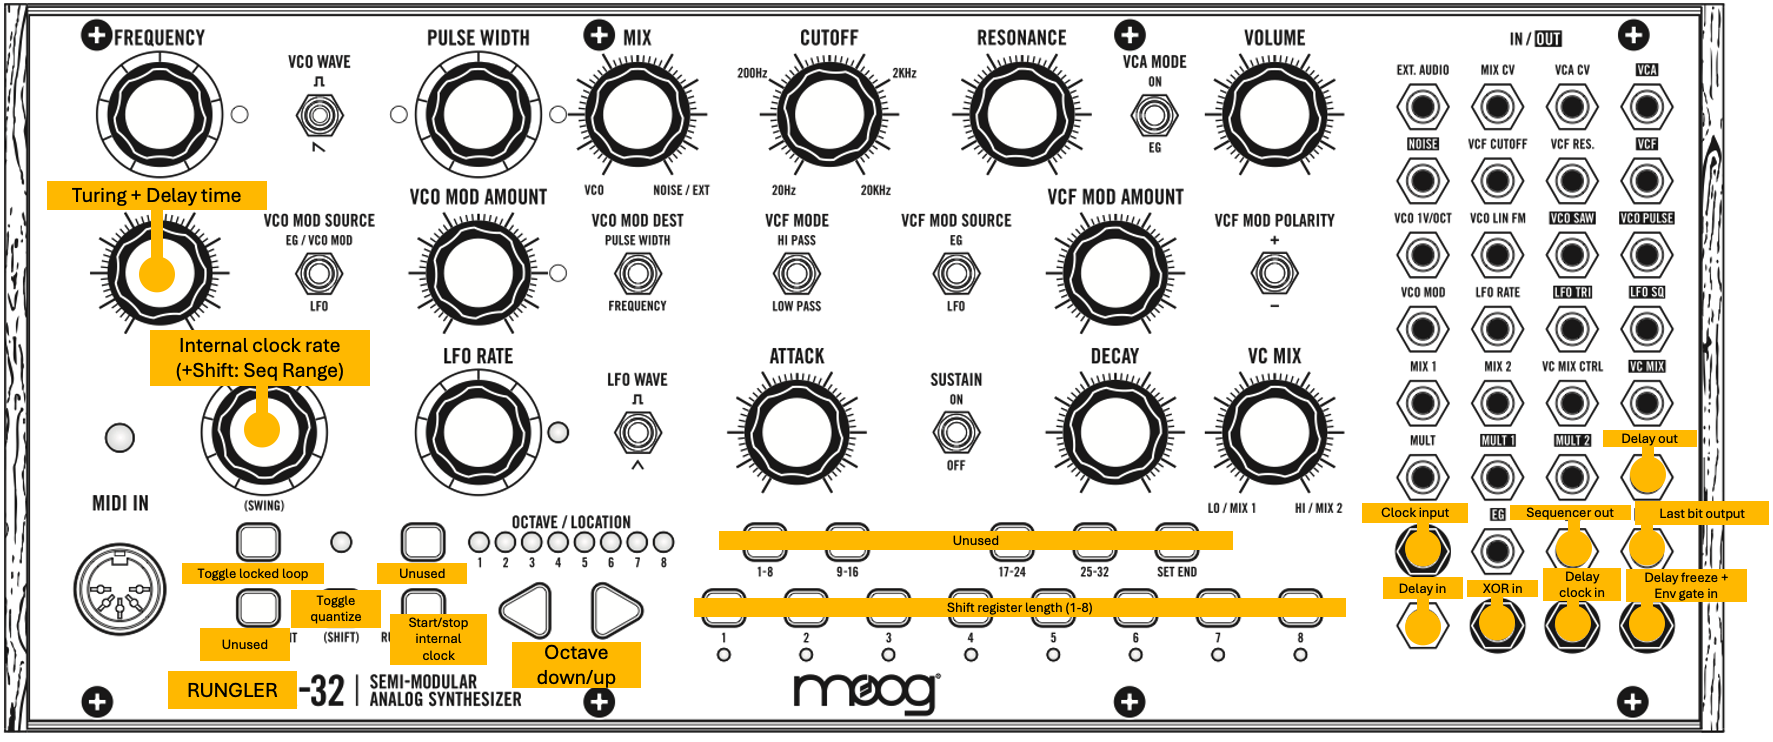
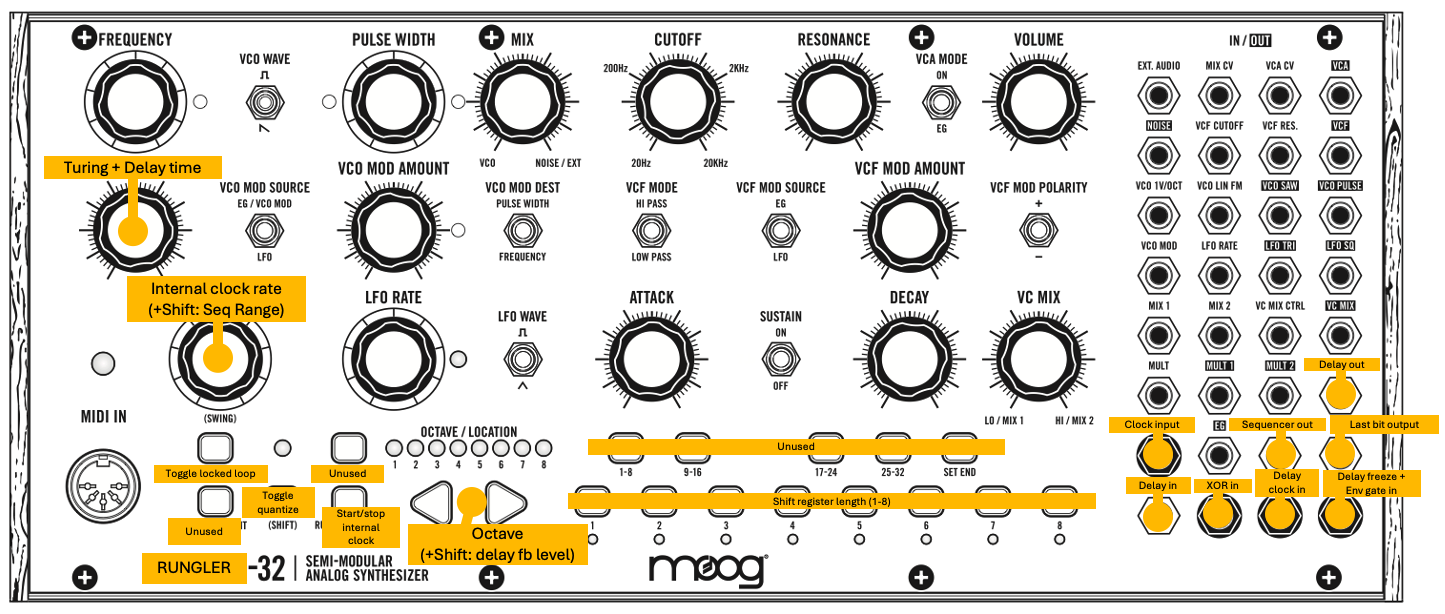
updated diagram, comments, default 40% feedback

Changed region(s): [[0.0, 0.0, 1.0, 0.9902], [0.4048, 0.4642, 0.4983, 0.6498], [0.5294, 0.4951, 0.5606, 0.6498]]

diff --git a/firmware/rungler32/main.cpp b/firmware/rungler32/main.cpp
@@ -39,7 +39,7 @@
 //    whose rate is modulated (e.g. by a slow LFO) gives chorus/vibrato, with the delay buffer frozen or not; the
 //    delay is that period times a fraction picked by GLIDE (1/4, 1/3, 3/8, 1/2, 2/3, 3/4, 1, 3/2, 2), halved
 //    until it fits in 0.51 s. RESET still feeds the shift register's XOR as well.
-//  - SHIFT + arrows: feedback (inverted: each repeat flips polarity), 25 levels (0 = single repeat ... 100%), shown on the octave LEDs while SHIFT is
+//  - SHIFT + arrows: feedback (inverted: each repeat flips polarity), 25 levels (0 = single repeat ... 100%; starts at 4 = 40%), shown on the octave LEDs while SHIFT is
 //    held and for 1.5 s after a change: a green bar (1-8), then yellow (9-16) and red (17-24) rolling in from
 //    the right; all red = 100% (the line then holds forever and new input piles up into saturation).
 //    Build with -DDELAY_NO_FEEDBACK for a version without internal feedback.
@@ -151,7 +151,7 @@ static int32_t kFeedbackQ12[kFbLevels + 1] = {
 class Rungler32 : public Mother32 {
 public:
     Rungler32()
-        : fbLevel_(0), w_(0), wAcc_(0), encPred_(0), encIdx_(0), encStep_(kImaStep[0]),
+        : fbLevel_(4), w_(0), wAcc_(0), encPred_(0), encIdx_(0), encStep_(kImaStep[0]),
           dec_(0), decWord_(0), decPred_(0), decIdx_(0), decStep_(kImaStep[0]), hm1_(0), h0_(0), prev_(0), cur_(0), delay_(0), frozen_(false), wasFrozen_(false), sDec_(0), sWord_(0), sPred_(0), sIdx_(0), sStep_(kImaStep[0]), sHm1_(0), sH0_(0), sPrev_(0), sCur_(0),
           loopLen_(4), loopRel_(0), loopPos_(0), loopRate_(65536L), loopTarget_(65536L), freezeDelay_(kMinDelay), targetDelay_(0), assignFoldK_(7570), assignFoldB_(52523),
           resetCnt_(0), resetSeen_(false), lastResetEdge_(0), syncPeriod_(0), periodQ4_(0), ringIdx_(0), histN_(0),

diff --git a/README.md b/README.md
@@ -106,7 +106,7 @@ is switched off, so only the jacks decide. GLIDE's ends and loop lock override t
 | **SHIFT** tapped alone (*Toggle quantize*) | Quantisation on/off with a quick tap; holding SHIFT doesn't toggle it (TEMPO LED green = on, red = off). |
 | **SHIFT** + lower-row key **1** to **8** | SCALE in steps: key *n* = *n* × 12.5% (key 8 = 100%). The key doesn't change the length or fire the envelope. |
 | **SHIFT** + **TEMPO** | SCALE: attenuation of KB, 0 to 100% (default 50%), shown on the key LEDs. SCALE jumps to the knob's position once you turn it. After you release SHIFT, the clock rate jumps back to TEMPO once you turn it again. |
-| **SHIFT** + **◀ / ▶** | Delay feedback, 25 levels, inverted (each repeat flips polarity): 0 = a single repeat, top = 100% (the loop holds forever and new input piles up into saturation). |
+| **SHIFT** + **◀ / ▶** | Delay feedback, 25 levels, inverted (each repeat flips polarity): 0 = a single repeat, top = 100% (the loop holds forever and new input piles up into saturation). Starts at 40% (four green LEDs). |
 | **RUN/STOP** (*Start/stop internal clock*) | Internal clock on/off. While on, incoming MIDI clock replaces it. |
 | **HOLD** (*Toggle locked loop*) | Loop lock on/off: each clock only rotates the bits, so the pattern repeats unchanged. |
 | **RESET**, **PATTERN** (*Unused*) | Not used while running. RESET held at power-up (with TEMPO fully anticlockwise and SUSTAIN off) enters update mode, see below. |
@@ -135,7 +135,7 @@ the next clock; releases act at once. Otherwise presses act at once.
 ### At power-up
 
 Nothing is saved between power cycles. Rungler-32 starts with the internal clock off, length 8 with
-random bits, SCALE 50%, quantisation on, no transpose, loop lock off and feedback at a single repeat.
+random bits, SCALE 50%, quantisation on, no transpose, loop lock off and feedback at 40%.
 
 ## Installing
 
